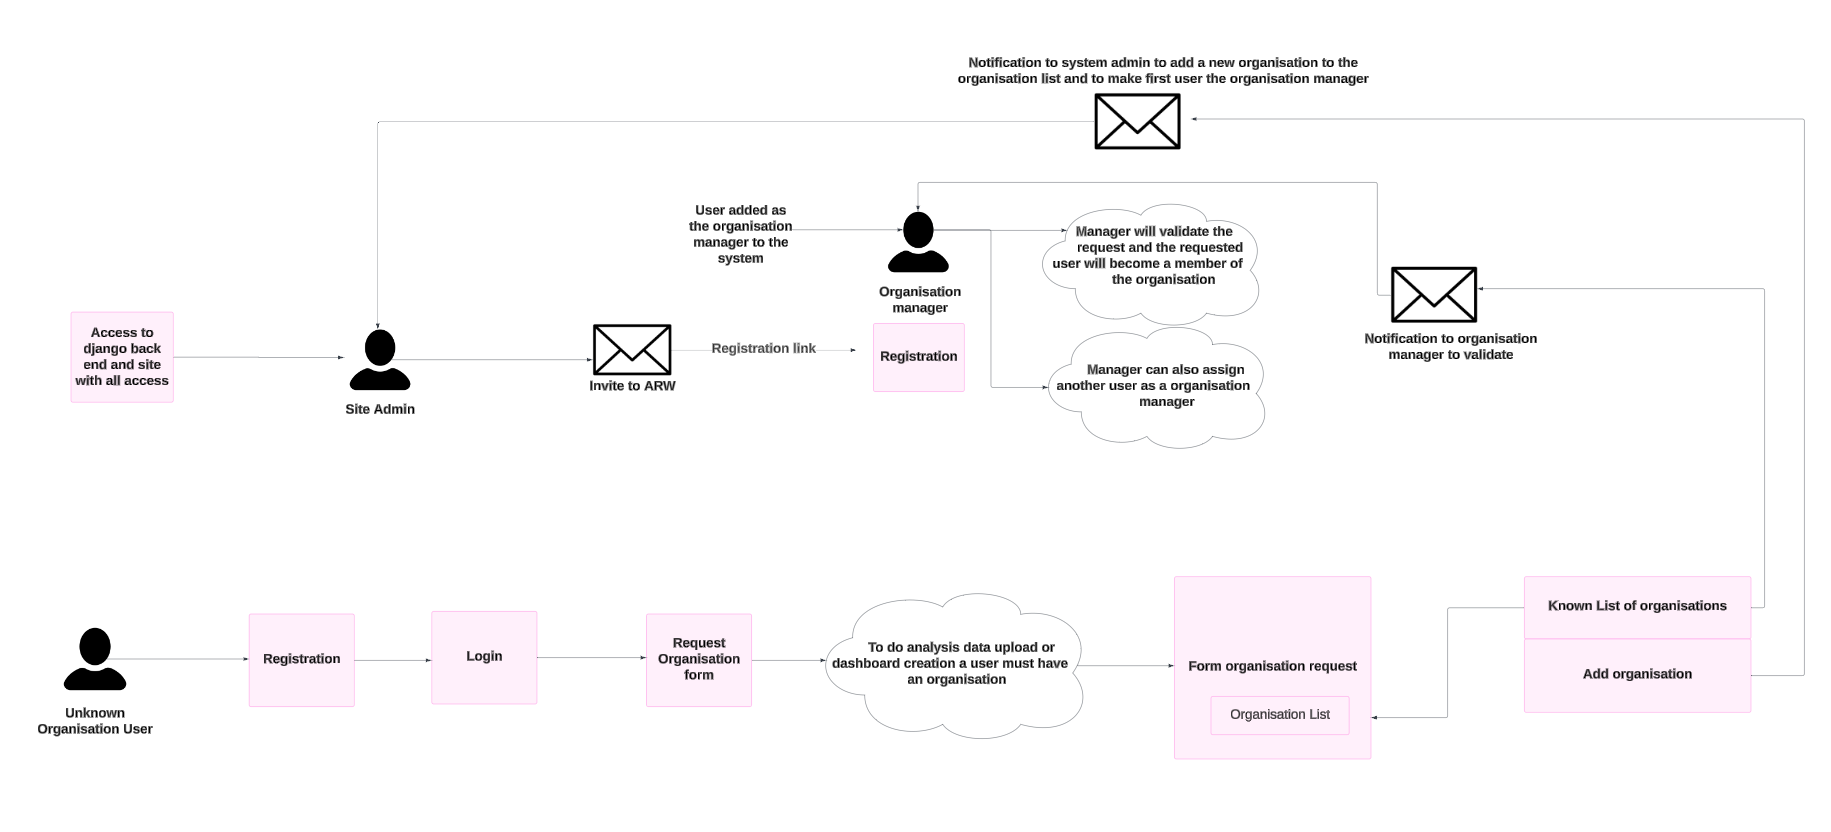
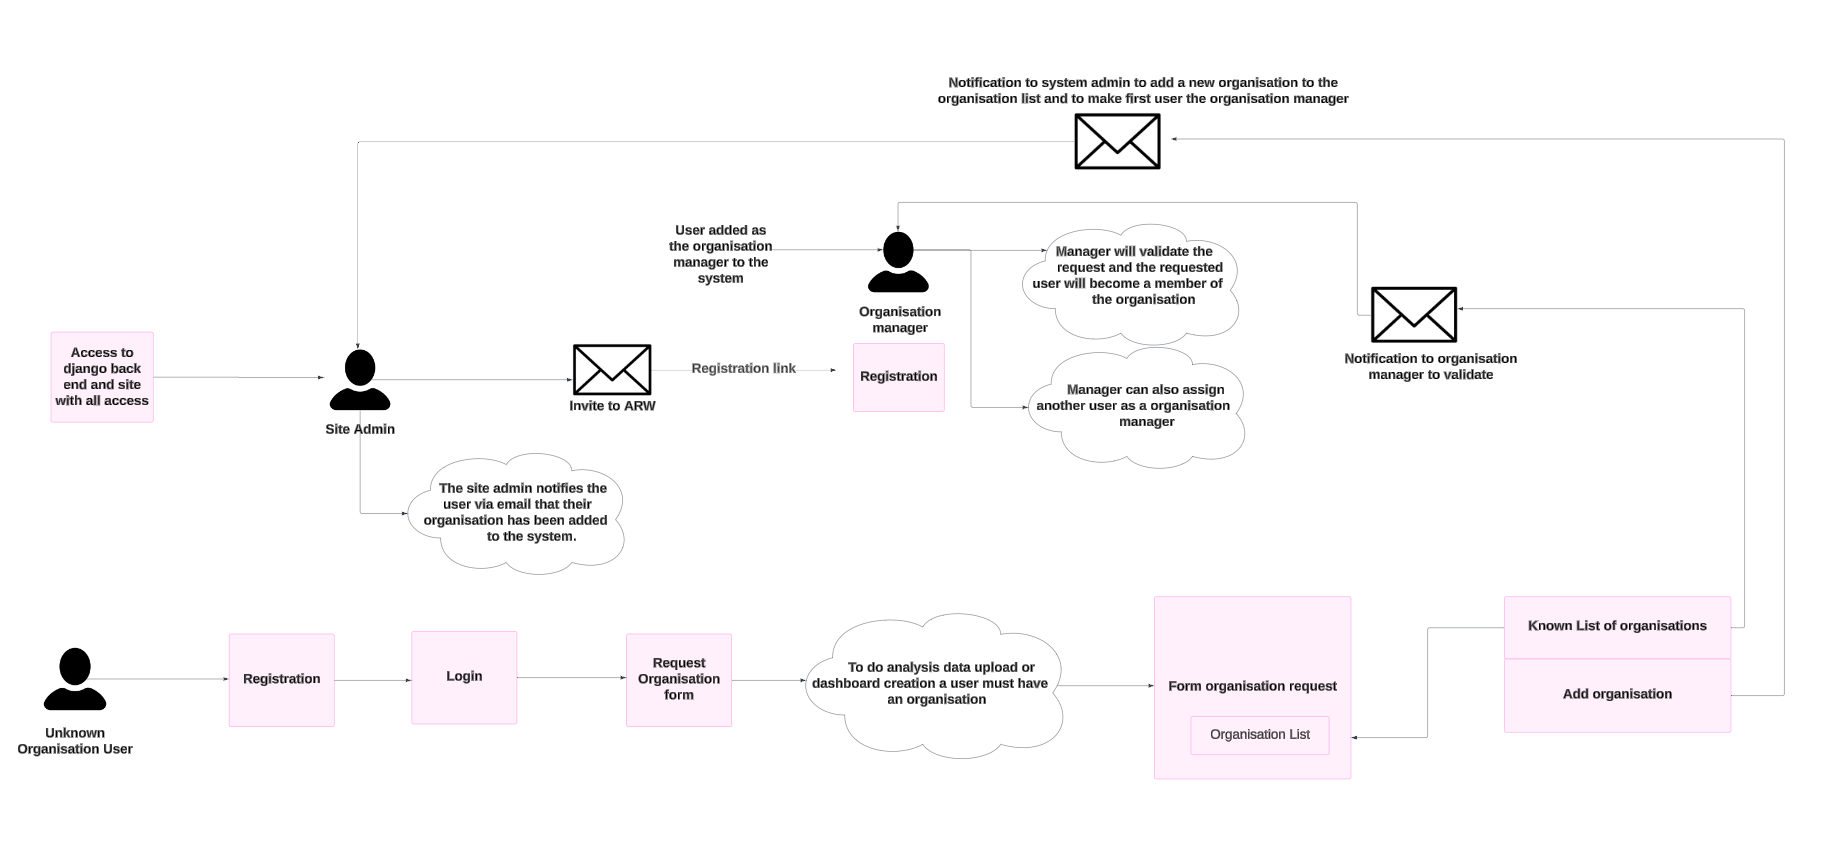
Minor updates

diff --git a/docs/src/user/onboard.md b/docs/src/user/onboard.md
@@ -61,15 +61,17 @@ context_id: 09820vctyusuytr4hcdty
 
     ##### Admin actions
 
-    1. **Site Admin:** The site administrator, with full access to the Django backend and the system, adds the organisation manager to the system.
+    1. **Site Admin:** The site administrator, with full access to the Django backend, adds the organisation to the system and designates the requested user as the organisation manager.
 
-    2. **Email Invitation:** The site admin sends an invitation email to the organisation manager with a registration link to register on the system as an organisation manager.
+    2. **Notification Email to the User:** The site admin will send a notification email to the user, informing them that their organisation has been successfully added to the system.
 
-    3. **Organisation Manager Receives Email:** The organisation manager receives an email and can use the provided link to register on the organisation.
+    3. **Email Invitation:** The site admin sends an invitation email to the organisation manager with a registration link to register on the system as an organisation manager.
 
-    4. **Registration to the organisation:** Using the registration link, the organisation manager completes the registration process on the organisation.
+    4. **Organisation Manager Receives Email:** The organisation manager receives an email and can use the provided link to register on the organisation.
 
-    5. **Access Granted:** The organisation manager is successfully added to the system and gains the necessary permissions to manage the organisation.
+    5. **Registration to the organisation:** Using the registration link, the organisation manager completes the registration process on the organisation.
+
+    6. **Access Granted:** The organisation manager is successfully added to the system and gains the necessary permissions to manage the organisation.
 
 ## User Onboarding 3: Invite from organisation manager
 
